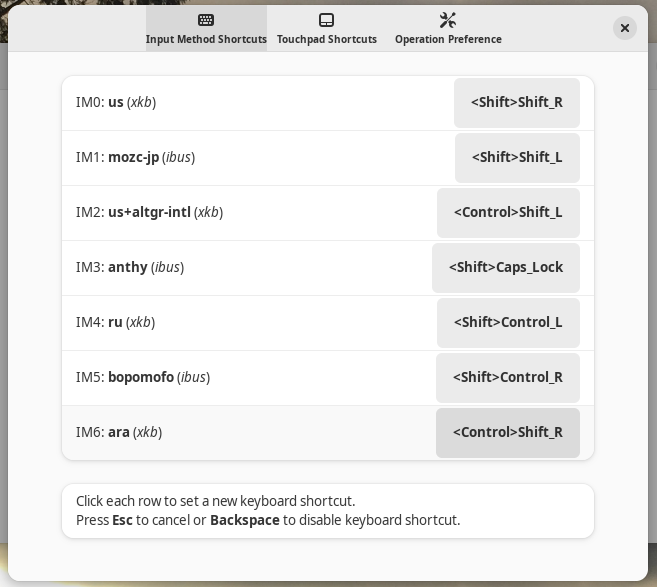
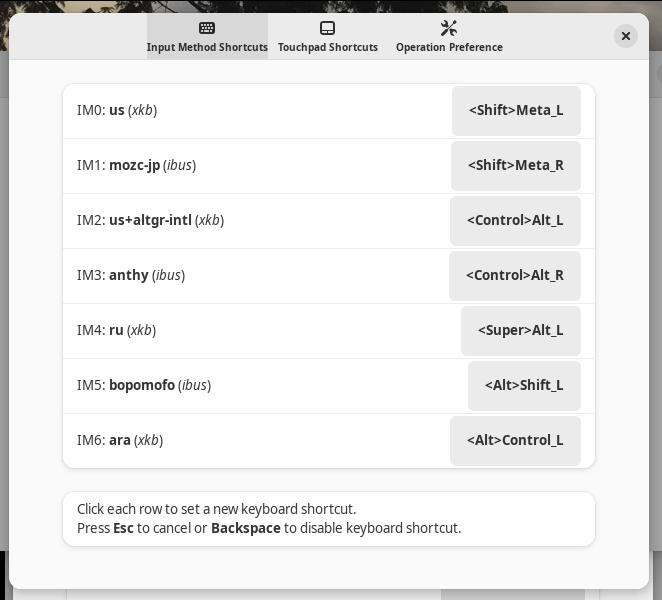
Use Alt and Meta

diff --git a/prefs.js b/prefs.js
@@ -182,10 +182,12 @@ function keyvalIsAcceptedCombo(keyval) {
         // Modifier keys
         Gdk.KEY_Shift_L,
         Gdk.KEY_Control_L,
-        Gdk.KEY_Meta_L,
+        Gdk.KEY_Alt_L, // Normal case incl. after Control etc.
+        Gdk.KEY_Meta_L, // after Shift
         Gdk.KEY_Super_L,
         Gdk.KEY_Shift_R,
         Gdk.KEY_Control_R,
+        Gdk.KEY_Alt_R,
         Gdk.KEY_Meta_R,
         Gdk.KEY_Super_R,
         Gdk.KEY_Caps_Lock, // *** This is debatable and may be skipped

diff --git a/test-keys/prefs.js b/test-keys/prefs.js
@@ -178,10 +178,12 @@ function keyvalIsAcceptedCombo(keyval) {
         // Modifier keys
         Gdk.KEY_Shift_L,
         Gdk.KEY_Control_L,
-        Gdk.KEY_Meta_L,
+        Gdk.KEY_Alt_L, // Normal case incl. after Control etc.
+        Gdk.KEY_Meta_L, // after Shift
         Gdk.KEY_Super_L,
         Gdk.KEY_Shift_R,
         Gdk.KEY_Control_R,
+        Gdk.KEY_Alt_R,
         Gdk.KEY_Meta_R,
         Gdk.KEY_Super_R,
         Gdk.KEY_Caps_Lock, // *** This is debatable and may be skipped
